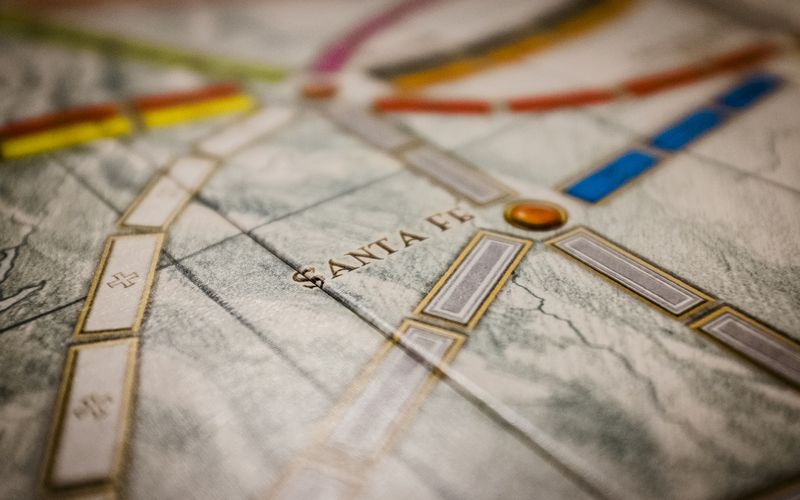
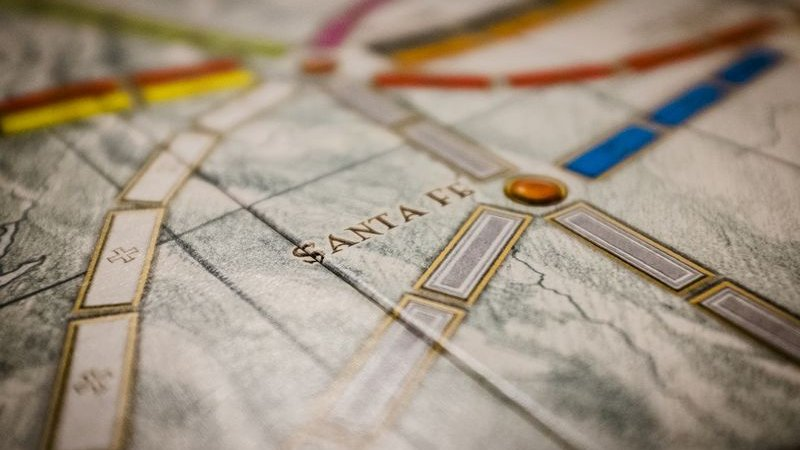
16:9 everywhere: versus figure photos and CSS now 16/9

diff --git a/src/assets/style.css b/src/assets/style.css
@@ -186,7 +186,7 @@ code { font-family: ui-monospace, Menlo, Consolas, monospace; font-size: 0.9em; 
 hr { border: 0; border-top: 1px solid var(--line); margin: 32px 0; }
 .versus { display: grid; grid-template-columns: 1fr; gap: 16px; margin: 20px 0 8px; font-family: "Libre Franklin", system-ui, sans-serif; font-size: 14px; line-height: 1.55; }
 .versus-side { border: 1px solid var(--line); border-radius: var(--radius); overflow: hidden; background: var(--bg); }
-.versus-side img { display: block; width: 100%; height: auto; aspect-ratio: 8/5; object-fit: cover; }
+.versus-side img { display: block; width: 100%; height: auto; aspect-ratio: 16/9; object-fit: cover; }
 .versus-side figcaption { padding: 12px 14px; font-size: 14px; color: var(--ink-2); }
 .versus-side figcaption strong { color: var(--ink); }
 .photo-note { font-size: 14px; color: var(--ink-3); }

diff --git a/src/guides/ticket-to-ride-vs-catan.md b/src/guides/ticket-to-ride-vs-catan.md
@@ -17,11 +17,11 @@ They are not the same game, and they are not for the same people. This guide com
 
 <figure class="versus">
   <div class="versus-side">
-    <img src="/images/photos/ticket-to-ride-play.jpg" alt="Ticket to Ride board in play, with coloured train pieces on the routes around Santa Fe" width="800" height="500" loading="lazy">
+    <img src="/images/photos/ticket-to-ride-play.jpg" alt="Ticket to Ride board in play, with coloured train pieces on the routes around Santa Fe" width="800" height="450" loading="lazy">
     <figcaption><strong>Ticket to Ride.</strong> 2–5 players, 45–60 min, ages 8+. Photo: Billie Grace Ward, CC BY 2.0, via Wikimedia Commons.</figcaption>
   </div>
   <div class="versus-side">
-    <img src="/images/photos/catan-play.jpg" alt="A completed game of Catan, with hex tiles, settlements and cards on the table" width="800" height="500" loading="lazy">
+    <img src="/images/photos/catan-play.jpg" alt="A completed game of Catan, with hex tiles, settlements and cards on the table" width="800" height="450" loading="lazy">
     <figcaption><strong>Catan.</strong> 3–4 players, 60–90 min, ages 10+. Photo: Fritzmann2002, CC BY-SA 4.0, via Wikimedia Commons.</figcaption>
   </div>
 </figure>
